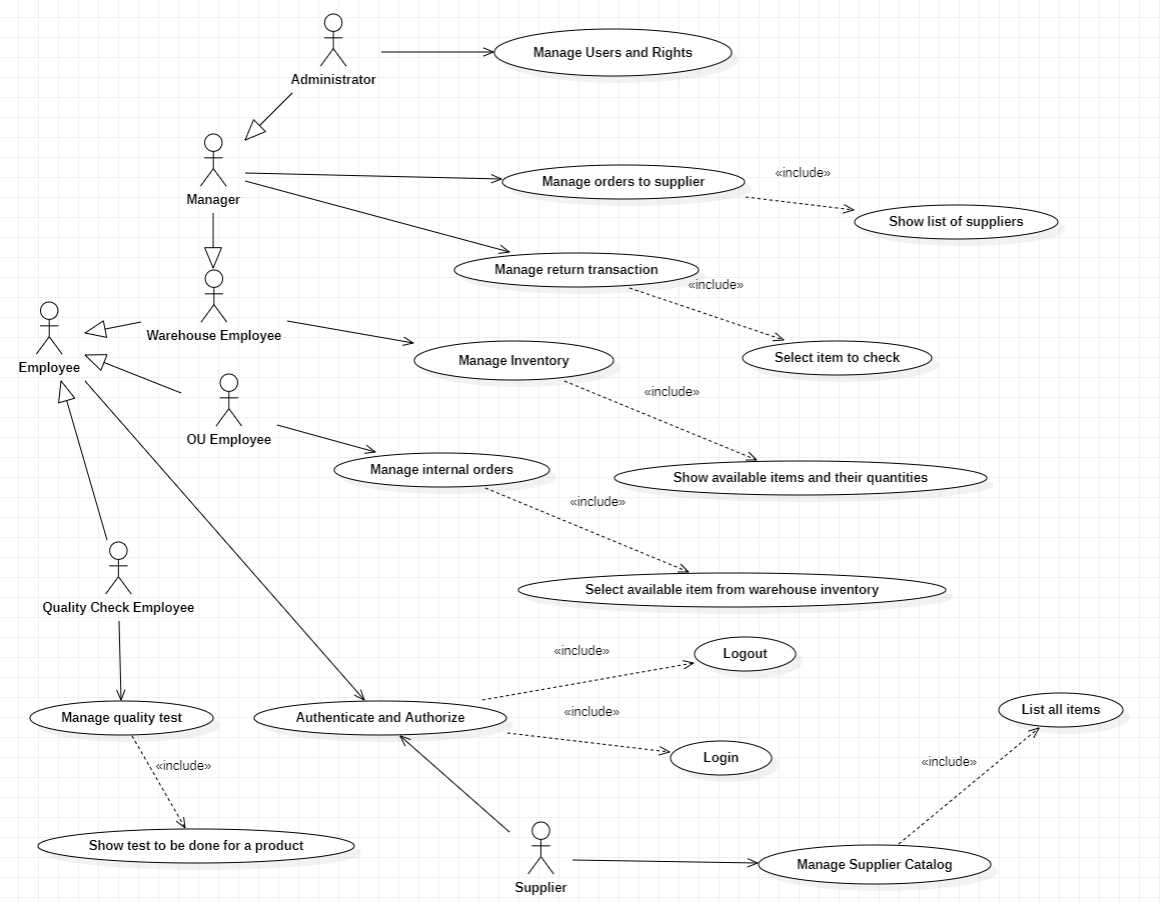
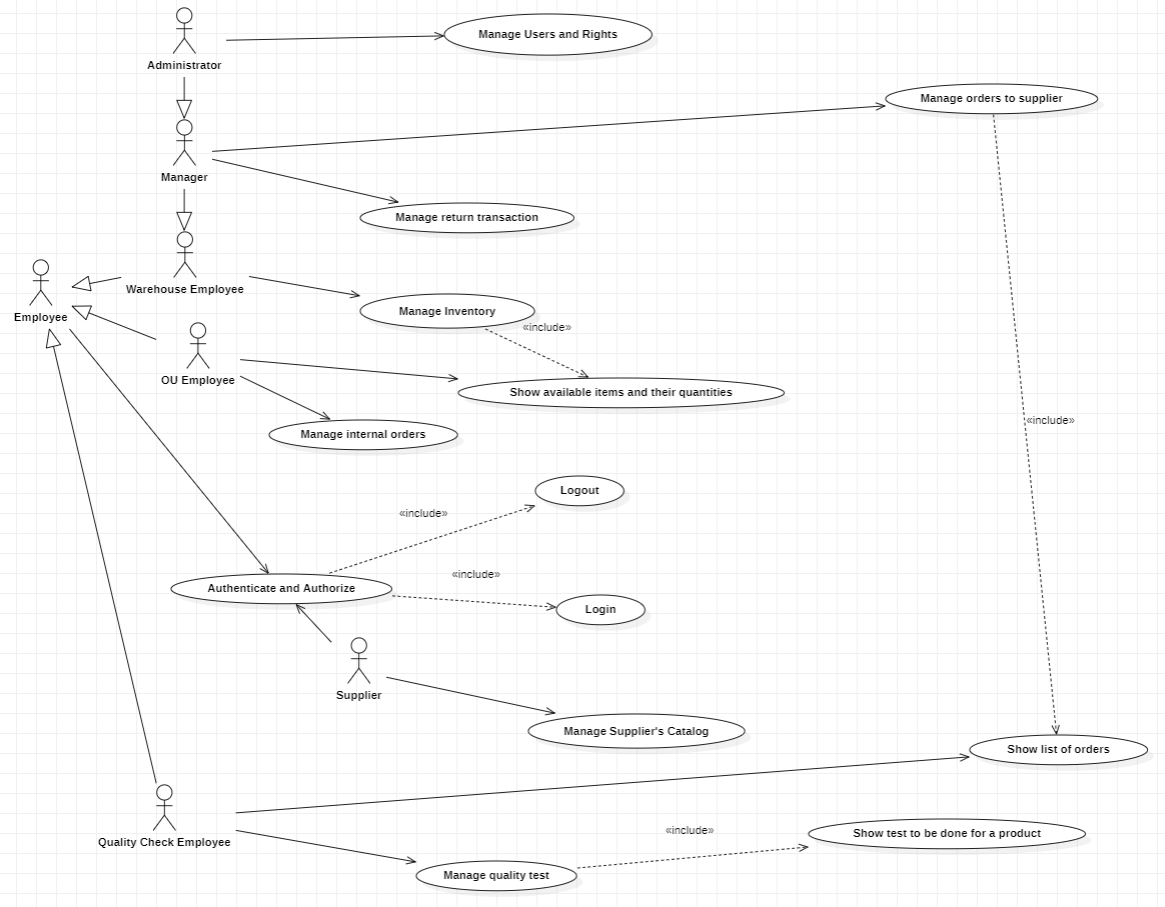
add use case 3-5

diff --git a/RequirementsDocument.md b/RequirementsDocument.md
@@ -85,7 +85,7 @@ EZWH (EaSy WareHouse) is a software application to support the management of a w
 
 | Actor | Logical Interface | Physical Interface  |
 | ------------- |:-------------:| -----:|
-| Administrator 		| GUI, CLI 	| screen, keyboard |
+| Administrator 		| GUI 	    | screen, keyboard |
 | Manager 				| GUI   	| screen, keyboard |
 | Supplier 				| GUI 		| screen, keyboard |
 | Warehouse employee 	| GUI 		| screen, keyboard |
@@ -120,7 +120,7 @@ EZWH (EaSy WareHouse) is a software application to support the management of a w
 | | |
 | FR2		| Manage Inventory |
 | FR2.1		| Modify quantity available for a product in the warehouse |
-| FR2.2		| Modify position for a product type |
+| FR2.2		| Modify position for a item |
 | FR2.3		| Show available items and their quantities |
 | FR2.4		| Search for location of a certain item |
 | FR2.5		| Compute available space |
@@ -128,11 +128,12 @@ EZWH (EaSy WareHouse) is a software application to support the management of a w
 | FR2.7		| Delete item |
 | FR2.8		| Search item |
 | | |
-| FR3		| Manage supplier’s catalog |
-| FR3.1		| Define a new product type or modify an existing product type |
-| FR3.2		| Delete a product type |
-| FR3.3		| List all product types |
-| FR3.4		| Search for a product type |
+| FR3		| Manage suppliers catalog |
+| FR3.1		| Add new item |
+| FR3.2		| Modify item |
+| FR3.3		| Delete item |
+| FR3.4		| List all items |
+| FR3.5		| Search for an item |
 | | |
 | FR4		| Manage order to supplier |
 | FR4.1		| Create order to supplier |
@@ -169,8 +170,10 @@ EZWH (EaSy WareHouse) is a software application to support the management of a w
 |  FR7.2	| Show test to be done for a certain item |
 |  FR7.3	| Report test result |
 |  FR7.4	| Add test to a product |
-
-
+| | |
+| FR8 		| Authenticate and Authorize |
+| FR8.1		| Login |
+| FR8.2		| Logout |
 
 
 ## Non Functional Requirements
@@ -189,49 +192,221 @@ EZWH (EaSy WareHouse) is a software application to support the management of a w
 
 
 ## Use case diagram
-![usecaseDiagram](./EzWhUseCaseDiagram.png)
+![usecaseDiagram](./EzWhUseCaseDiagram.PNG)
 
 
 \<next describe here each use case in the UCD>
-### Use case 1, UC1
-| Actors Involved        |  |
+### Use case 3, UC3 Manage supplier's catalog
+
+| Actors Involved        |  Supplier |
 | ------------- |:-------------:| 
-|  Precondition     | \<Boolean expression, must evaluate to true before the UC can start> |
-|  Post condition     | \<Boolean expression, must evaluate to true after UC is finished> |
-|  Nominal Scenario     | \<Textual description of actions executed by the UC> |
-|  Variants     | \<other normal executions> |
-|  Exceptions     | \<exceptions, errors > |
+|  Precondition     | Supplier exists and is logged in |
+|  Post condition     | Changes to Database are made and are coherent |
+|  Nominal Scenario     | The supplier, via the app, is supposed to be able to manage the list of items they are able to supply to the warehouse  |
+|  Variants     | Add item, Modify item, Delete item |
+|  Exceptions     | Input Error, Item not found, Item match |
 
-##### Scenario 1.1 
+##### Scenario 3-1
 
-\<describe here scenarios instances of UC1>
-
-\<a scenario is a sequence of steps that corresponds to a particular execution of one use case>
-
-\<a scenario is a more formal description of a story>
-
-\<only relevant scenarios should be described>
-
-| Scenario 1.1 | |
+| Scenario | Add Item |
 | ------------- |:-------------:| 
-|  Precondition     | \<Boolean expression, must evaluate to true before the scenario can start> |
-|  Post condition     | \<Boolean expression, must evaluate to true after scenario is finished> |
+|  Precondition     | Supplier must be able to provide item |
+|  Post condition     | Item correctly stored into the catalog |
 | Step#        | Description  |
-|  1     |  |  
-|  2     |  |
-|  ...     |  |
+|  1     | Open Add Item page |  
+|  2     | Fill information about Item |
+|  3     | Input Item Quantity |
+|  4     | Confirm Item Storage |
+|  5     | Item is stored into catalog |
 
-##### Scenario 1.2
+##### Scenario 3-2
 
-##### Scenario 1.x
+| Scenario | Item Match |
+| ------------- |:-------------:| 
+|  Precondition     | At least one Item in catalog |
+|  Post condition     | Item not stored into Catalog Database |
+| Step#        |   |
+|  1     | Open Add Item page |  
+|  2     | Fill information about Item |
+|  3     | Input Item Quantity |
+|  4     | Item Name is match inside system |
+|  5     | Error Message displayed about Item match |
+|  6     | Item not stored into catalog |
 
-### Use case 2, UC2
-..
+##### Scenario 3-3
 
-### Use case x, UCx
-..
+| Scenario | Input Error |
+| ------------- |:-------------:| 
+|  Precondition     | Supplier must be able to provide item |
+|  Post condition     | Item not stored into Catalog and user able to re-enter data |
+| Step#        | Description  |
+|  1     | Open Add Item page |  
+|  2     | Fill information about Item |
+|  3     | Input Item Quantity |
+|  4     | Something wrong with the format of input |
+|  5     | Error Message displayed about Input Error |
+|  6     | Item not stored into catalog |
+|  7     | Input cleared |
 
 
+##### Scenario 3-4
+
+| Scenario | Modify Item |
+| ------------- |:-------------:| 
+|  Precondition     | At least one Item in Catalog |
+|  Post condition     | Item data modified in Catalog Database |
+| Step#        | Description  |
+|  1     | Open Catalog View |  
+|  2     | User inputs search bar |
+|  3     | Query is made to Database |
+|  4     | Items respecting requirements shown |
+|  5     | Select Item to change |
+|  6     | Change Item information and/or quantity |
+|  7     | Confirm Changes |
+|  8     | Item data is modified in Catalog Database |
+
+##### Scenario 3-5
+
+| Scenario | Delete Item |
+| ------------- |:-------------:| 
+|  Precondition     | At least one Item in Catalog |
+|  Post condition     | Item data deleted from Catalog Database |
+| Step#        | Description |
+|  1     | Open Catalog View |  
+|  2     | User inputs search bar |
+|  3     | Query is made to Database |
+|  4     | Items respecting requirements shown |
+|  5     | Select Item to delete |
+|  7     | Confirm Changes |
+|  8     | Item data is deleted from Catalog Database |
+
+##### Scenario 3-6
+
+| Scenario | Item not found |
+| ------------- |:-------------:| 
+|  Precondition     | At least one Item in Catalog |
+|  Post condition     | Item not found |
+| Step#        | Description |
+|  1     | Open Catalog View |  
+|  2     | User inputs search bar |
+|  3     | Query is made to Database |
+|  7     | No item found respecting query |
+|  7     | No item shown |
+|  7     | Error Message displayed about Search not conclusive |
+
+
+### Use case 5, UC5 Manage internal order
+
+| Actors Involved        | OU Employee, Warehouse Employee |
+| ------------- |:-------------:| 
+|  Precondition     | Connection to Database |
+|  Post condition     | Order correctly sent to warehouse |
+|  Nominal Scenario     | The OU Employee is supposed to be able to see the items available to order and correctly appoint an order  |
+|  Variants     | |
+| | Make order |
+| | Delete order|
+| | Show order history |
+| | Order confirmed by Warehouse Employee |
+|  Exceptions     | Input Error, Current Order not found, Order not found |
+ 
+##### Scenario 5-1
+
+| Scenario | Make order |
+| ------------- |:-------------:| 
+|  Precondition     | Items are in the warehouse |
+|  Post condition     | Alert is sent to warehouse employees notifing about order made |
+| Step#        | Description  |
+|  1     | Open List of Items|  
+|  2     | Select Available Items from Warehouse Inventory |
+|  3     | Select the quantities |
+|  4     | Confirm Order |
+|  5     | Display Recap of Order |
+|  6     | Order put into Database |
+|  7     | Send Alert to Warehouse notifying about order |
+
+##### Scenario 5-2
+
+| Scenario | Input Error |
+| ------------- |:-------------:| 
+|  Precondition     | Items are in the warehouse |
+|  Post condition     | Order not confirmed and user able to re-enter data |
+| Step#        | Description |
+|  1     | Open List of Items |  
+|  2     | Select Items to Order |
+|  3     | Select the quantities |
+|  4     | User makes mistake in input format |
+|  5     | Alert shown notifying about Input Error |
+|  6     | Input cleared |
+
+##### Scenario 5-3
+
+| Scenario | Delete Order |
+| ------------- |:-------------:| 
+|  Precondition     | There is at least one not confirmed order ongoing |
+|  Post condition     | Order is deleted from history |
+|      |  Warehouse notified |
+| Step#        | Description  |
+|  1     | Open List of Orders currently ongoing|  
+|  2     | User inputs search bar |
+|  3     | Select Orders to Delete |
+|  4     | Ask for confirm |
+|  5     | Delete Orders from Database |
+|  6     | Send Alert to Warehouse about order cancelling |
+|  7     | OU Order Alert of Warehouse Employee disappears |
+
+##### Scenario 5-4
+
+| Scenario | Current Order not found |
+| ------------- |:-------------:| 
+|  Precondition     | There is at least one order ongoing |
+|  Post condition     | No order displayed and user able to re-enter data |
+| Step#        | Description |
+|  1     | Open List of Orders currently ongoing |  
+|  2     | User inputs search bar |
+|  3     | Query is made to Database |
+|  4     | User does not input a Number |
+|  5     | Error Message shown notifying about Search not Conclusive |
+|  6     | Input cleared |
+
+##### Scenario 5-5
+
+| Scenario | Show Order History |
+| ------------- |:-------------:| 
+|  Precondition     | There is at least one order made  |
+|  Post condition     | No order displayed and user able to re-enter data |
+| Step#        | Description  |
+|  1     | Open History of Orders |  
+|  2     | User inputs search bar |
+|  3     | Query is made from Database |
+|  4     | List of Orders shown |
+
+##### Scenario 5-6
+
+| Scenario | Order not found |
+| ------------- |:-------------:| 
+|  Precondition     | Items are in the warehouse |
+|  Post condition     | Order not confirmed and user able to re-input data |
+| Step#        | Description |
+|  1     | Open History of Orders  |  
+|  2     | User inputs search bar |
+|  3     | Query is made to Database |
+|  4     | Order not found given search info |
+|  5     | Error Message shown notifying about Search not Conclusive |
+|  6     | Input cleared |
+
+##### Scenario 5-7
+
+| Scenario | Order confirmed by Warehouse Employee |
+| ------------- |:-------------:| 
+|  Precondition     | At least one order is currently ongoing |
+|  Post condition     | Order counted as confirmed |
+|      | Product.units -= Order.units |
+| Step#        | Description  |
+|  1     | Warehouse employee opens OU Order Alert |  
+|  2     | Warehouse employee confirms order |
+|  3     | Database is updated |
+|  4     | Order now counts as confirmed |
+|  5     | OU Order Alert disappears |
 
 # Glossary
 
